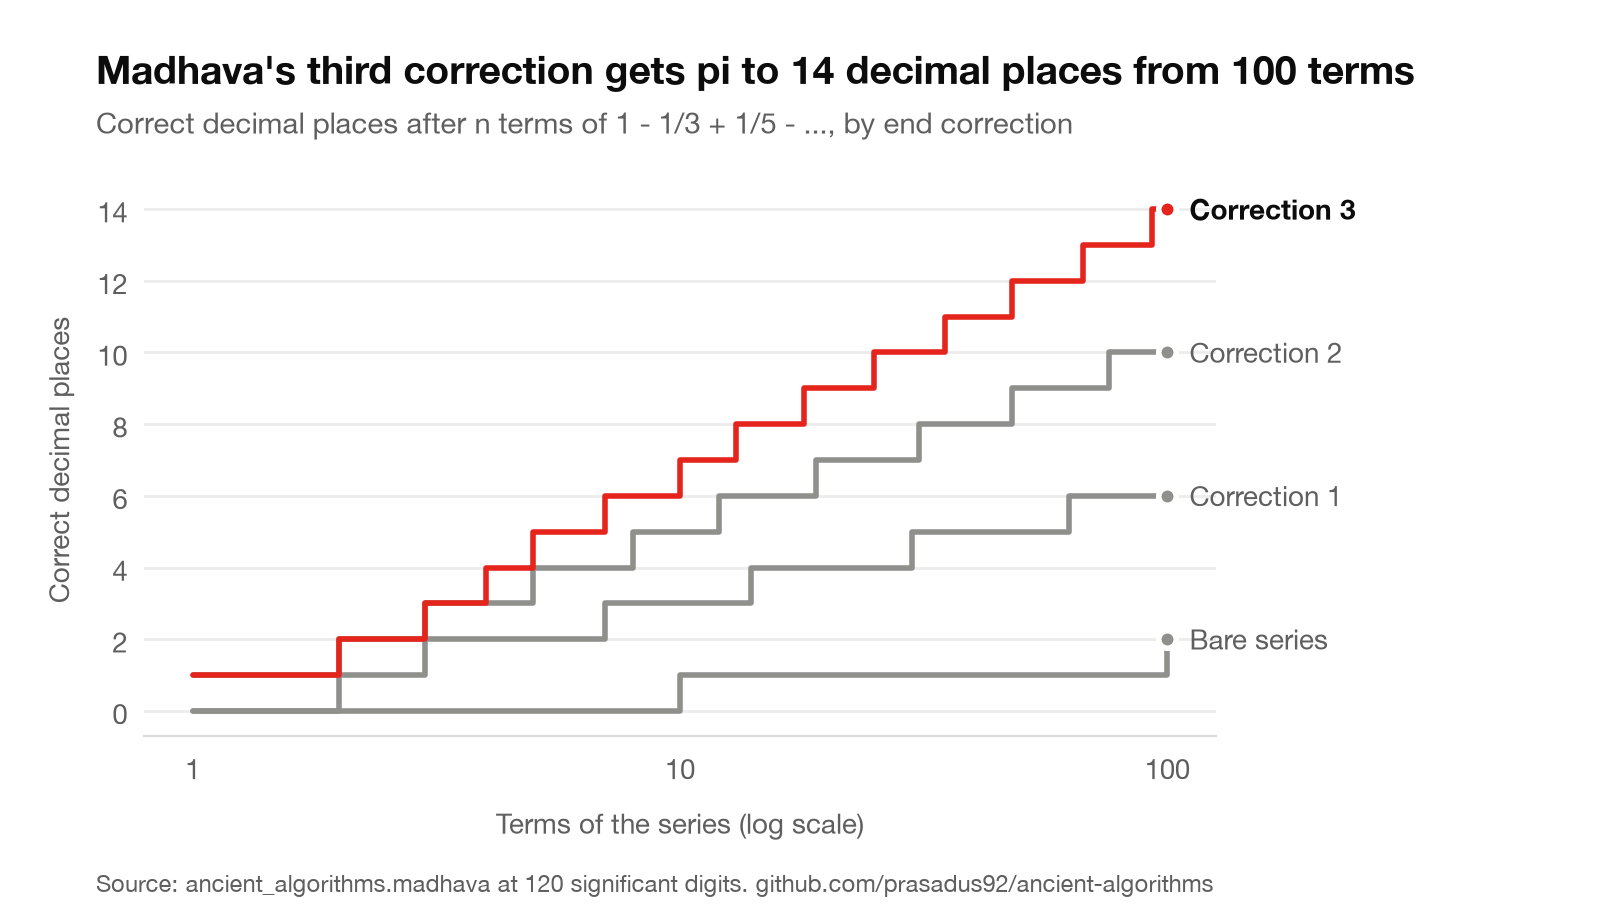
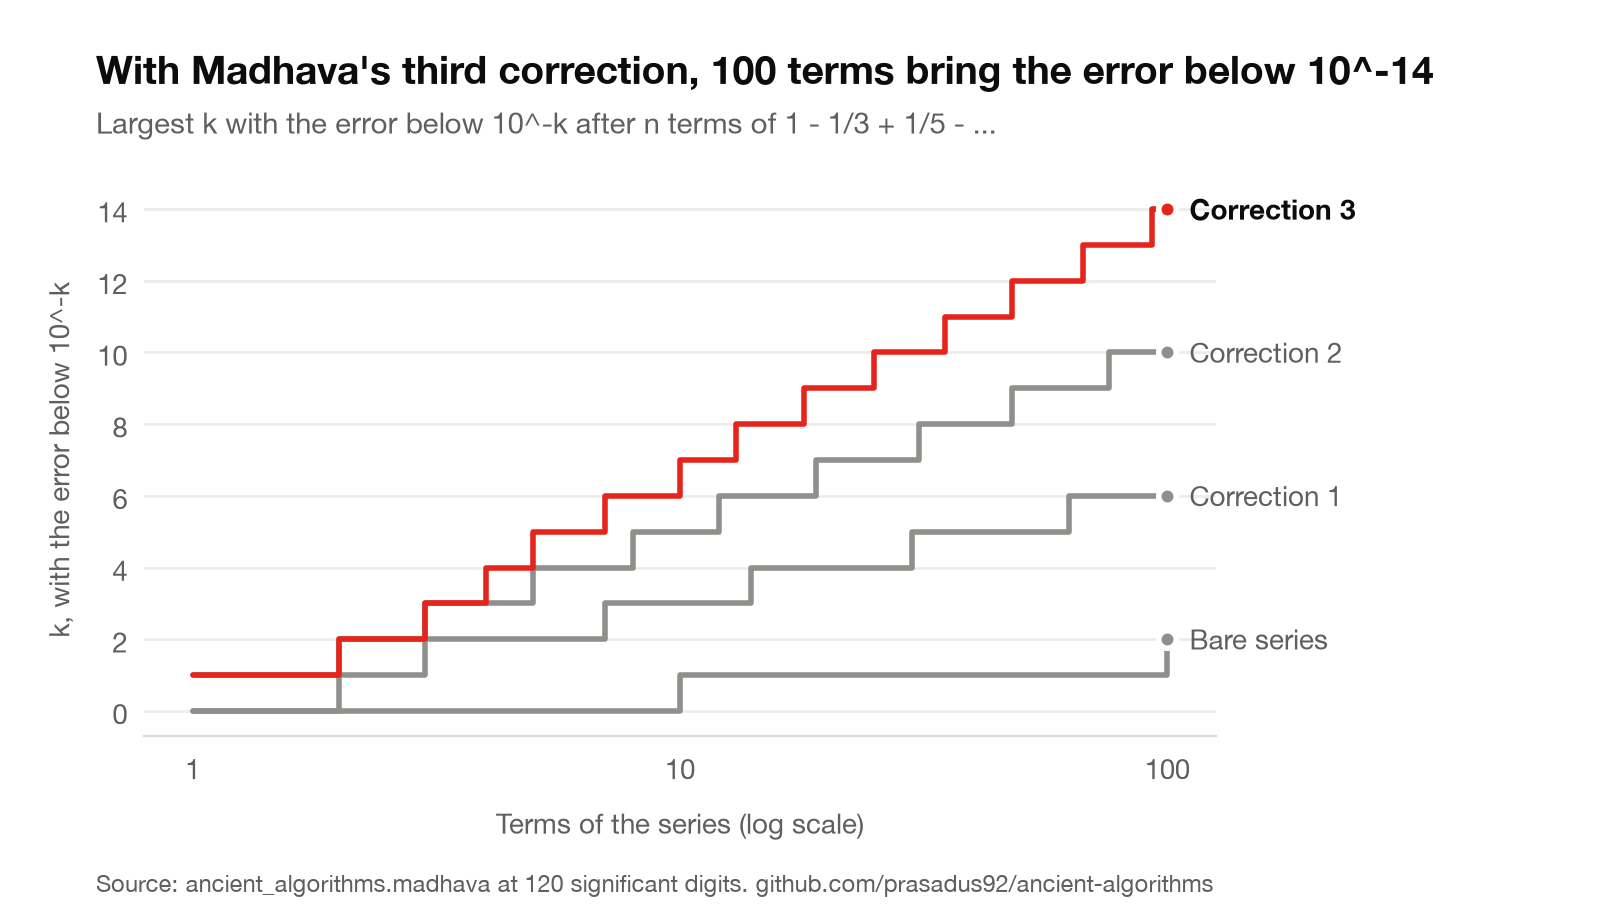
Name the accuracy measure as error below 10^-k
correct_decimals and correct_digits return floor(-log10 |error|), the
largest k with the error below 10^-k. That can be 1 more than the
number of decimals that agree: after Heron's first step, 26.8333
against the square root of 720, 26.8328..., has error 5.2e-4, so k is
3 while 2 decimals agree. The Madhava post already says so.

The Madhava and Heron chart titles and axes, and the docstrings of
precision, madhava.correct_digits, heron.correct_decimals, the README
and the Madhava benchmark, now say "error below 10^-k" instead of
"correct decimal places". Function names are unchanged.

Changed region(s): [[0.0625, 0.0609, 0.9062, 0.0913], [0.0625, 0.1217, 0.6875, 0.1522], [0.0312, 0.3043, 0.0625, 0.7]]

diff --git a/charts/render.py b/charts/render.py
@@ -123,7 +123,7 @@ Chart = LineChart | BarChart
 
 
 def madhava_convergence() -> LineChart:
-    """Correct decimal places of pi against terms, for the bare series and Madhava's corrections."""
+    """Accuracy of pi against terms, for the bare series and Madhava's corrections."""
     terms = list(range(1, 101))
     names = ["Bare series", "Correction 1", "Correction 2", "Correction 3"]
     series = [
@@ -138,10 +138,10 @@ def madhava_convergence() -> LineChart:
     best = series[-1].ys[-1]
     return LineChart(
         slug="madhava-convergence",
-        title=f"Madhava's third correction gets pi to {best:.0f} decimal places from 100 terms",
-        subtitle="Correct decimal places after n terms of 1 - 1/3 + 1/5 - ..., by end correction",
+        title=f"With Madhava's third correction, 100 terms bring the error below 10^-{best:.0f}",
+        subtitle="Largest k with the error below 10^-k after n terms of 1 - 1/3 + 1/5 - ...",
         x_label="Terms of the series (log scale)",
-        y_label="Correct decimal places",
+        y_label="k, with the error below 10^-k",
         series=series,
         source=f"Source: ancient_algorithms.madhava at 120 significant digits. {REPO_URL}",
         log_x=True,
@@ -179,16 +179,16 @@ def euclid_steps() -> LineChart:
 
 
 def heron_convergence() -> LineChart:
-    """Correct decimal places of the square root of 720 after each step of Heron's rule."""
+    """Accuracy of the square root of 720 after each step of Heron's rule."""
     approximations = heron_sqrt(720, 5)
     steps = list(range(len(approximations)))
     digits = [correct_decimals(720, x) for x in approximations]
     return LineChart(
         slug="heron-convergence",
-        title=f"5 steps of Heron's rule give the square root of 720 to {digits[-1]} places",
-        subtitle="Correct decimal places after each step, starting from the nearest square, 27",
+        title=f"5 steps of Heron's rule bring the error in the root of 720 below 10^-{digits[-1]}",
+        subtitle="Largest k with the error below 10^-k after each step, starting from 27",
         x_label="Steps of the rule",
-        y_label="Correct decimal places",
+        y_label="k, with the error below 10^-k",
         series=[Series("Heron's rule", steps, digits, highlight=True)],
         source=f"Source: ancient_algorithms.heron, exact fractions. {REPO_URL}",
     )

diff --git a/src/ancient_algorithms/precision.py b/src/ancient_algorithms/precision.py
@@ -1,7 +1,8 @@
-"""Correct decimal places of an approximation, shared by the Madhava and Heron modules.
+"""Decimal accuracy of an approximation, shared by the Madhava and Heron modules.
 
 1. Take the absolute error between the approximation and the exact value.
-2. The correct decimal places are floor(-log10 of the error), at least 0.
+2. The accuracy is floor(-log10 of the error), at least 0: the largest k with the error
+   below 10^-k.
 3. Stop at a cap, the number of places the exact value is known to.
 """
 
@@ -18,7 +19,11 @@ GUARD_DIGITS = 10
 
 
 def correct_decimals(approx: Decimal, exact: Decimal, cap: int) -> int:
-    """``floor(-log10 |approx - exact|)``, from 0 up to ``cap``; ``cap`` when the 2 are equal."""
+    """``floor(-log10 |approx - exact|)``: the largest k with the error below 10^-k, 0 to ``cap``.
+
+    This can be 1 more than the number of decimals that agree: 26.8333 against
+    26.8328... has error 5.2e-4, so k is 3 while 2 decimals agree. ``cap`` when the 2 are equal.
+    """
     check_at_least("cap", cap, 0)
     with localcontext() as ctx:
         ctx.prec = cap + GUARD_DIGITS

diff --git a/src/ancient_algorithms/heron.py b/src/ancient_algorithms/heron.py
@@ -80,7 +80,7 @@ def unit_fractions(x: Fraction) -> tuple[int, tuple[int, ...]]:
 
 
 def correct_decimals(n: int, side: Fraction, limit: int = 1000) -> int:
-    """Correct decimal places of ``side`` as the side of ``n``, from 0 up to ``limit``."""
+    """The largest k with ``side`` within 10^-k of the side of ``n``, from 0 up to ``limit``."""
     check_at_least("n", n, 1)
     check_at_least("limit", limit, 0)
     with localcontext() as ctx:

diff --git a/src/ancient_algorithms/madhava.py b/src/ancient_algorithms/madhava.py
@@ -113,5 +113,5 @@ def machin_pi(n: int, prec: int = DEFAULT_PREC) -> Decimal:
 
 
 def correct_digits(approx: Decimal) -> int:
-    """Correct decimal places of an approximation of pi: floor(-log10 |error|), up to 100."""
+    """The largest k with the error of an approximation of pi below 10^-k, up to 100."""
     return correct_decimals(approx, PI_100, 100)

diff --git a/benchmarks/madhava_convergence.py b/benchmarks/madhava_convergence.py
@@ -1,4 +1,4 @@
-"""Correct decimal places of pi against the number of terms, for each method.
+"""Accuracy of pi against terms, for each method: the largest k with the error below 10^-k.
 
 Arithmetic runs at 120 significant digits so the precision does not cap the
 faster methods; the reference value has 100 places.

diff --git a/README.md b/README.md
@@ -18,13 +18,13 @@ Python implementations of algorithms from dated historical sources. Where the so
 | `sunzi.py` | The remainder problem and its recipe with the multipliers 70, 21 and 15, generalized to any pairwise coprime divisors | *Sunzi Suanjing* (c. 3rd to 5th century CE), the remainder problem in the third juan |
 | `dayan.py` | Qin Jiushao's dayan method: reducing the divisors to definite numbers, and the qiuyi procedure for each multiplier | Qin Jiushao, *Shushu jiuzhang* (preface 1247), chapter 1 |
 | `place_value.py` | Shared helpers for writing whole numbers in any base, most significant digit first, used by the Maya, algorism and Plimpton 322 modules | General |
-| `precision.py` | Correct decimal places of an approximation, shared by the Madhava and Heron modules | General |
+| `precision.py` | Decimal accuracy of an approximation (the largest k with the error below 10^-k), shared by the Madhava and Heron modules | General |
 | `maya.py` | Maya numerals in base 20, the Long Count, the 260-day and 365-day counts, the Calendar Round, and conversion to Julian Day Numbers and calendar dates under the GMT correlation | Monument inscriptions and the Dresden Codex, read through Morley (1915); correlation constants from Martin and Skidmore (2012) |
 | `completing_square.py` | Al-Khwarizmi's 6 types of equation and his geometric completion of the square, against the quadratic formula | Al-Khwarizmi, *al-Kitab al-mukhtasar fi hisab al-jabr wa'l-muqabala* (c. 820 CE), Rosen's 1831 translation |
 | `algorism.py` | Arithmetic with Indian numerals as the Latin "Dixit Algorizmi" teaches it: adding, taking away, doubling, halving, multiplying and dividing | Al-Khwarizmi's arithmetic (c. 825 CE), known from a 12th-century Latin reworking, Boncompagni's 1857 edition |
 | `euclid.py` | Euclid's algorithm by repeated subtraction as *Elements* VII.1 and VII.2 state it, and in division form, with step counts and Lamé's bound | Euclid, *Elements* Book VII (c. 300 BCE), Heath's 1908 translation |
 | `sieve.py` | The sieve as Nicomachus describes it, the standard sieve, a segmented sieve and a wheel, against trial division | Nicomachus of Gerasa, *Introduction to Arithmetic* I.13 (c. 100 CE), D'Ooge's 1926 translation |
-| `heron.py` | Heron's square-root rule and his worked example for the square root of 720, with the doubling of correct digits each step | Heron of Alexandria, *Metrica* I.8 (c. 1st century CE), Schöne's edition |
+| `heron.py` | Heron's square-root rule and his worked example for the square root of 720, with the error exponent doubling each step | Heron of Alexandria, *Metrica* I.8 (c. 1st century CE), Schöne's edition |
 
 ## Run it
 
